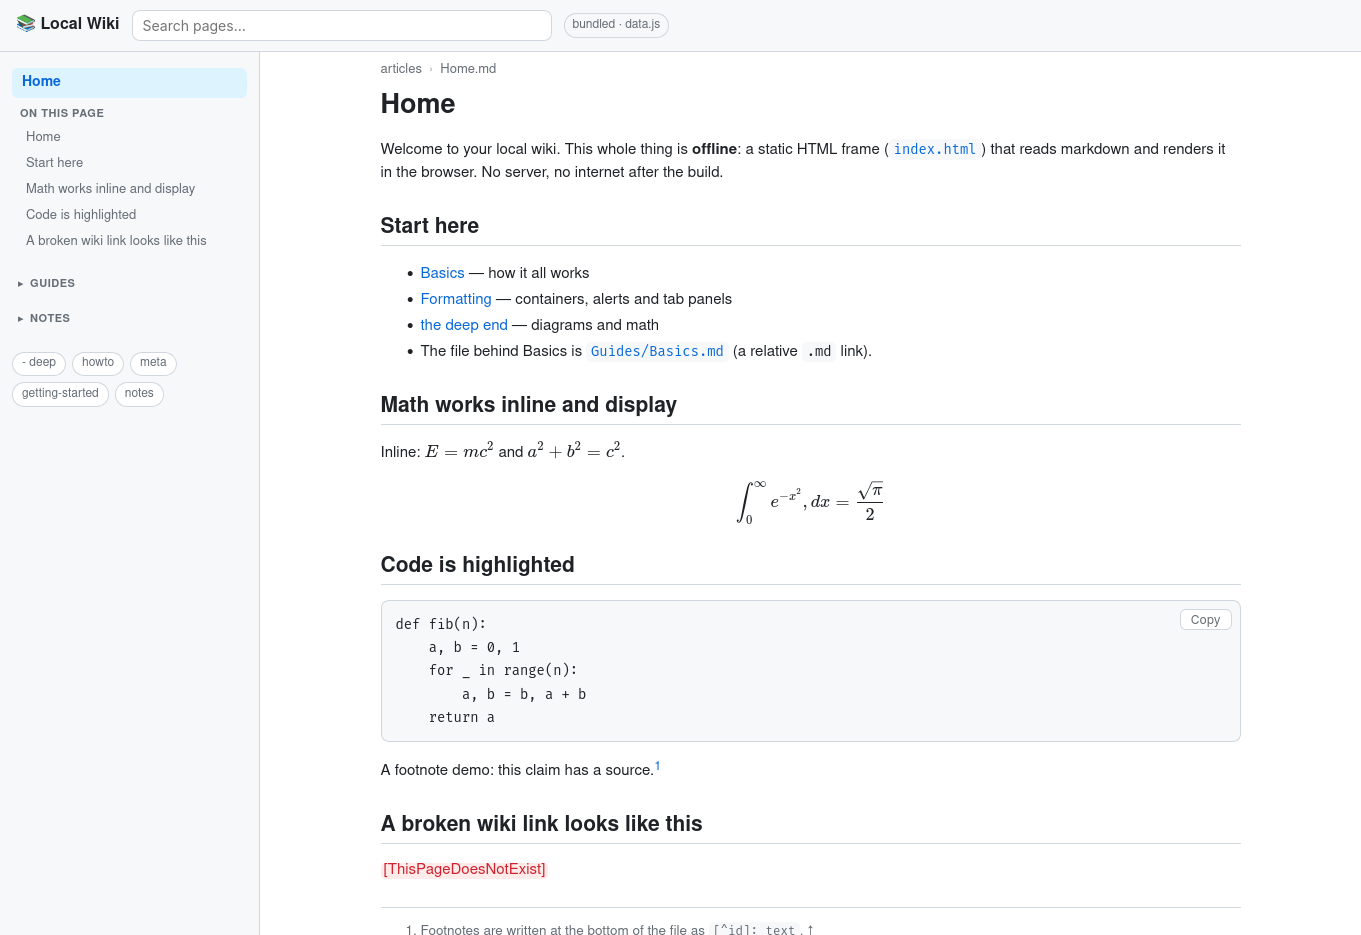
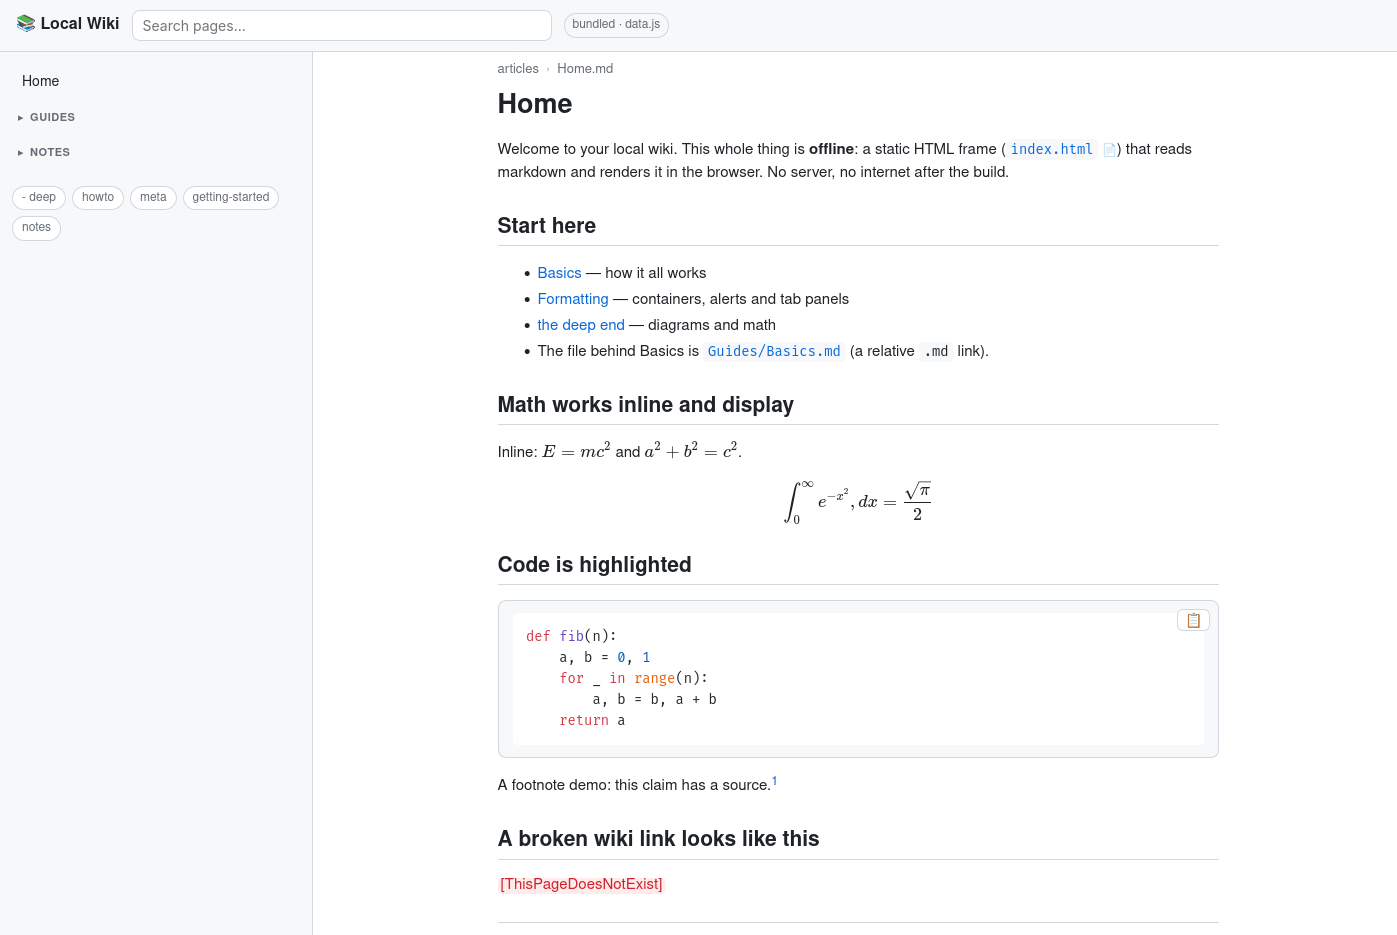
Fixed code highlighting, updated the screenshot accordingly

diff --git a/app.js b/app.js
@@ -199,7 +199,7 @@
     if (!window.hljs) return;
     pageNode.querySelectorAll('pre code').forEach(function (c) {
       if (/language-mermaid\b/.test(c.className)) return;
-      try { c.innerHTML = hljs.highlight(c.textContent, { ignoreIllegals: true }).value; c.classList.add('hljs'); } catch (e) {}
+      try { hljs.highlightElement(c); } catch (e) {} // reads the language-js class markdown-it already set; auto-detects when the fence has no language
     });
   }
   function runKaTeX(pageNode) {
